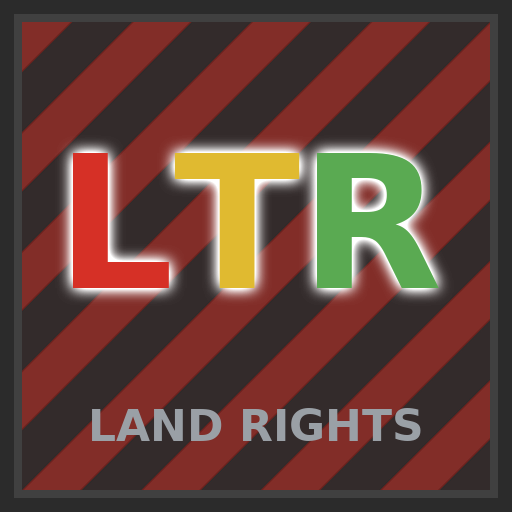
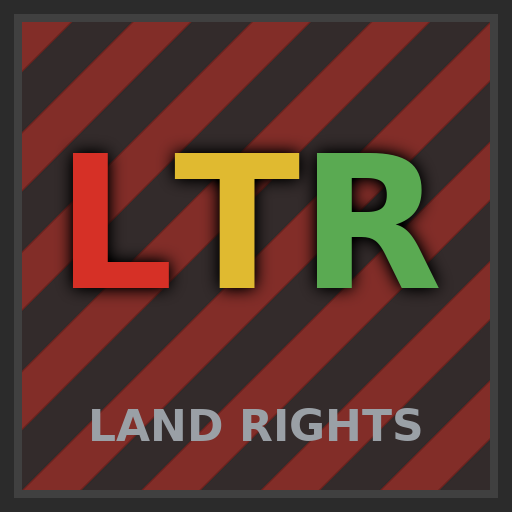
thumbnail: a black drop shadow instead of a white halo
The ground is already dark, so a dark halo sinks into it and reads as depth
beneath the glyphs, where the white one announced itself as a rim drawn
around them. Being subtractive it also needs less force: radius 8 at
strength 1.5, against 7 at 2.2 for the white version, because it only has
to darken the stripe it covers rather than overpower it.

Renames GLOW to HALO, since the constant is now black and "GLOW = (0,0,0)"
reads as a contradiction, and rewrites the rationale above it, which still
argued for white. No change to the rendered card -- byte-identical.

Changed region(s): [[0.3125, 0.25, 0.875, 0.5938], [0.0938, 0.25, 0.375, 0.5938]]

diff --git a/tools/gen_thumbnail.py b/tools/gen_thumbnail.py
@@ -28,17 +28,22 @@ FRAME_INSET = 14
 FRAME_WIDTH = 8
 SUBTITLE_FILL = (154, 160, 166)
 
-# A white halo behind the mark, centred (no offset) rather than cast to one
-# side. The card underlays the wilderness stripes, and wilderness red is
-# also the L's own color -- so wherever a stripe fell behind the L the
-# letter dissolved into it. The halo separates every letter from whatever
-# is under it without changing the letters themselves, which have to stay
-# on the state palette. Strength lifts the blur's midtones so the halo
-# reads as a rim rather than a faint smudge; it clips at full white close
-# to the glyph, which is exactly where the contrast is needed.
-GLOW = (255, 255, 255)
-GLOW_RADIUS = 7
-GLOW_STRENGTH = 2.2
+# A halo behind the mark, centred (no offset) rather than cast to one side.
+# The card underlays the wilderness stripes, and wilderness red is also the
+# L's own color -- so wherever a stripe fell behind the L, the letter
+# dissolved into it. The halo separates every letter from whatever is under
+# it without changing the letters themselves, which have to stay on the
+# state palette.
+#
+# Black rather than white: the ground is already dark, so a dark halo sinks
+# into it and reads as depth beneath the glyphs, where a white one
+# announced itself as a rim drawn around them. That also buys a gentler
+# strength -- it only has to darken the stripe it covers, not overpower it.
+# Strength lifts the blur's midtones; past roughly 2 the halo stops falling
+# off and becomes a plate behind the mark.
+HALO = (0, 0, 0)
+HALO_RADIUS = 8
+HALO_STRENGTH = 1.5
 
 LETTERS = "LTR"
 SUBTITLE = "LAND RIGHTS"
@@ -85,10 +90,10 @@ def draw_letters(colors):
 
 
 def glow_for(layer):
-    """A blurred white copy of `layer`'s coverage, to sit directly behind it."""
-    alpha = layer.getchannel("A").filter(ImageFilter.GaussianBlur(GLOW_RADIUS))
-    alpha = alpha.point(lambda v: min(255, int(v * GLOW_STRENGTH)))
-    halo = Image.new("RGBA", layer.size, GLOW + (0,))
+    """A blurred copy of `layer`'s coverage, to sit directly behind it."""
+    alpha = layer.getchannel("A").filter(ImageFilter.GaussianBlur(HALO_RADIUS))
+    alpha = alpha.point(lambda v: min(255, int(v * HALO_STRENGTH)))
+    halo = Image.new("RGBA", layer.size, HALO + (0,))
     halo.putalpha(alpha)
     return halo
 
